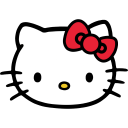
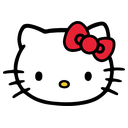
Install properly on a phone, and clear out what nothing uses
Adds a web app manifest, which is the piece Android needs: without one
the board installs as a bare shortcut with no name, no standalone launch
and no icon of its own, however good the favicon is. iOS took its icon
from the apple-touch-icon link already and now gets the 180px size it
actually asks for, so both platforms install the same board under the
same name. Icons are generated from julieSite's full-size artwork rather
than upscaled from the 128px favicon, on a solid tile because home-screen
icons are composited onto one, and with a maskable variant so launchers
that crop to a circle do not take the whiskers off.

Removes 1.5 MB of assets nothing references: the old kiosk icon this
replaces, an ad image and a logo from the rider-facing board that this
one does not draw, a stray JPEG duplicate of the Liberty Landing mark,
and three Windows Zone.Identifier files. Nothing in the repository names
any of them; all remain in git history.

A clean checkout of this branch could not start the server at all.
config/sftp.json is deployment secrets and so is not committed, but it
was read unconditionally, and the process threw ENOENT before serving
anything. A deployed box only kept working because it still had an old
copy of the file that nothing deletes. A missing file now means the
notice poller is off; a malformed one still throws.

The README follows the branch: the overrides/ starter files it told you
to upload are gone, so it describes the format instead, and its one
[…]

diff --git a/test/display-contract.test.js b/test/display-contract.test.js
@@ -788,8 +788,12 @@ test("offline shell includes version 57 display assets", async () => {
   // exactly the phone that installed the board to use it offline. iOS reads the apple-touch-icon
   // link specifically and falls back to a screenshot of the page without one.
   assert.match(index, /rel="icon" href="\/assets\/app-icon\.png\?v=57"/);
-  assert.match(index, /rel="apple-touch-icon" href="\/assets\/app-icon\.png\?v=57"/);
-  assert.match(worker, /'\/assets\/app-icon\.png\?v=57'/);
+  assert.match(index, /rel="apple-touch-icon" href="\/assets\/app-icon-180\.png\?v=57"/);
+  assert.match(index, /rel="manifest" href="\/site\.webmanifest\?v=57"/);
+  for (const asset of ["app-icon.png", "app-icon-180.png", "app-icon-192.png", "app-icon-512.png", "app-icon-maskable-512.png"]) {
+    assert.ok(worker.includes(`'/assets/${asset}?v=57'`), `${asset} is missing from the offline shell`);
+  }
+  assert.ok(worker.includes("'/site.webmanifest?v=57'"));
 });
 
 // The Trust's boats are badged with its wordmark, so the logo has to be precached with the rest of
@@ -864,5 +868,42 @@ test("no file carries an unresolved merge conflict", async () => {
     for (const marker of ["<<<<<<<", "=======", ">>>>>>>"]) {
       assert.doesNotMatch(text, new RegExp(`^${marker}`, "m"), `${name} still has a ${marker} conflict marker`);
     }
+  }
+});
+
+// The manifest is what makes an Android home-screen install an app rather than a bookmark: without
+// it the board gets no name, no standalone launch and no icon of its own. It is also the kind of
+// file that fails silently — a wrong icon path is not an error, it is just an install with a blank
+// tile — so every path it names is checked to exist.
+test("the web app manifest names a real icon for every size it claims", async () => {
+  const [raw, index] = await Promise.all([
+    readFile(new URL("../public/site.webmanifest", import.meta.url), "utf8"),
+    readFile(indexPath, "utf8")
+  ]);
+  const manifest = JSON.parse(raw);
+  assert.equal(manifest.display, "standalone");
+  assert.equal(manifest.start_url, "/");
+  // The label under the icon. It matches what iOS is told in apple-mobile-web-app-title, so the
+  // same board does not land on two phones under two different names.
+  assert.equal(manifest.short_name, "Ferry Board");
+  assert.match(index, /name="apple-mobile-web-app-title" content="Ferry Board"/);
+  // The theme colour is the board's navy, and it agrees with the meta tag the browser reads first.
+  assert.match(index, new RegExp(`name="theme-color" content="${manifest.theme_color}"`));
+
+  // Android needs a 192 and a 512 to treat this as installable, plus a maskable one so launchers
+  // that crop to a circle do not cut the whiskers off.
+  const sizes = manifest.icons.map((icon) => `${icon.sizes} ${icon.purpose}`);
+  assert.ok(sizes.includes("192x192 any"));
+  assert.ok(sizes.includes("512x512 any"));
+  assert.ok(sizes.includes("512x512 maskable"));
+
+  for (const icon of manifest.icons) {
+    const file = icon.src.split("?")[0].replace(/^\//, "");
+    const bytes = await readFile(new URL(`../public/${file}`, import.meta.url));
+    // A PNG header, and the dimensions the manifest promises — a 512 entry pointing at a 128 file
+    // installs as a blurry tile and nothing anywhere says so.
+    assert.equal(bytes.subarray(1, 4).toString(), "PNG", `${file} is not a PNG`);
+    const [width, height] = [bytes.readUInt32BE(16), bytes.readUInt32BE(20)];
+    assert.equal(`${width}x${height}`, icon.sizes, `${file} is ${width}x${height}, not ${icon.sizes}`);
   }
 });

diff --git a/public/sw.js b/public/sw.js
@@ -1,5 +1,5 @@
 const SHELL='nyc-ferry-did-shell-v57',DATA='nyc-ferry-did-data-v57';
-const FILES=['/','/index.html','/styles.css?v=57','/app.js?v=57','/assets/app-icon.png?v=57','/assets/waterway.png','/assets/seastreak.png','/assets/nyu.png','/assets/cityferry.png','/assets/gi.png','/assets/fonts/lato-regular-latin.woff2','/assets/fonts/lato-bold-latin.woff2','/assets/fonts/lato-black-latin.woff2','/assets/fonts/oswald-variable-latin.woff2'];
+const FILES=['/','/index.html','/styles.css?v=57','/app.js?v=57','/assets/app-icon.png?v=57','/assets/app-icon-180.png?v=57','/assets/app-icon-192.png?v=57','/assets/app-icon-512.png?v=57','/assets/app-icon-maskable-512.png?v=57','/site.webmanifest?v=57','/assets/waterway.png','/assets/seastreak.png','/assets/nyu.png','/assets/cityferry.png','/assets/gi.png','/assets/fonts/lato-regular-latin.woff2','/assets/fonts/lato-bold-latin.woff2','/assets/fonts/lato-black-latin.woff2','/assets/fonts/oswald-variable-latin.woff2'];
 self.addEventListener('install',event=>event.waitUntil(caches.open(SHELL).then(cache=>cache.addAll(FILES)).then(()=>self.skipWaiting())));
 self.addEventListener('activate',event=>event.waitUntil(caches.keys().then(keys=>Promise.all(keys.filter(key=>key.startsWith('nyc-ferry-did-')&&![SHELL,DATA].includes(key)).map(key=>caches.delete(key)))).then(()=>self.clients.claim())));
 async function networkFirst(request,cacheName){const cache=await caches.open(cacheName);try{const response=await fetch(request);if(response.ok)await cache.put(request,response.clone());return response}catch{const saved=await cache.match(request);if(saved)return saved;throw new Error('offline')}}

diff --git a/lib/sftp-overrides.js b/lib/sftp-overrides.js
@@ -96,7 +96,24 @@ export function describeSftpError(error, stage = error?.sftpStage || "unknown", 
 }
 
 export async function loadSftpOverrideConfig({ configPath, rootPath }) {
-  const parsed = JSON.parse(await readFile(configPath, "utf8"));
+  // No config file means the feature is off, not that the board cannot start.
+  //
+  // config/sftp.json holds a host, a username and the path to a private key, so it is deployment
+  // secrets rather than source and is not committed. Reading it unconditionally made a clean
+  // checkout refuse to boot at all — the server threw ENOENT before it ever served a departure —
+  // while a deployed box carried on working only because it still had an old copy of the file on
+  // disk that nothing deletes. A board with no landing notices configured is a board that shows no
+  // landing notices, which is what an absent file plainly means.
+  //
+  // Only "the file is not there" is treated this way. A file that exists and is malformed still
+  // throws, because that is someone having configured this and got it wrong, and failing quietly
+  // would leave a kiosk silently unable to receive the notices it was set up to show.
+  const raw = await readFile(configPath, "utf8").catch((error) => {
+    if (error?.code === "ENOENT") return null;
+    throw error;
+  });
+  if (raw === null) return { enabled: false, pollSeconds: 10, readyTimeoutSeconds: 15, verboseErrors: true };
+  const parsed = JSON.parse(raw);
   const enabled = parsed.enabled === true;
   const base = {
     enabled,

diff --git a/test/sftp-overrides.test.js b/test/sftp-overrides.test.js
@@ -197,3 +197,24 @@ test("polls the configured landing file and stores the last valid notice locally
   await poller.stop();
   assert.equal(calls.end, 1);
 });
+
+// config/sftp.json is deployment secrets — a host, a username, a key path — so it is not committed,
+// and reading it unconditionally meant a clean checkout could not start the server at all.
+test("a missing SFTP config leaves the feature off instead of stopping the board", async () => {
+  const config = await loadSftpOverrideConfig({
+    configPath: path.join(os.tmpdir(), "did-sftp-does-not-exist", "sftp.json"),
+    rootPath: os.tmpdir()
+  });
+  assert.equal(config.enabled, false);
+  assert.equal(config.pollSeconds, 10);
+  assert.equal(config.readyTimeoutSeconds, 15);
+});
+
+// A file that is there and wrong is someone having configured this and made a mistake. Swallowing
+// that would leave a kiosk quietly unable to receive the notices it was set up to show.
+test("a malformed SFTP config still throws", async () => {
+  const directory = await mkdtemp(path.join(os.tmpdir(), "did-sftp-"));
+  const configPath = path.join(directory, "sftp.json");
+  await writeFile(configPath, "{ not json", "utf8");
+  await assert.rejects(() => loadSftpOverrideConfig({ configPath, rootPath: directory }));
+});

diff --git a/public/index.html b/public/index.html
@@ -10,9 +10,12 @@
     <meta name="apple-mobile-web-app-title" content="Ferry Board" />
     <title>NYC Ferry Staff Board</title>
     <link rel="icon" href="/assets/app-icon.png?v=57" type="image/png" />
-    <!-- Same file: an iPhone adding the board to its home screen uses this one, and without it iOS
-         screenshots the page instead of showing an icon at all. -->
-    <link rel="apple-touch-icon" href="/assets/app-icon.png?v=57" />
+    <!-- iOS reads this one specifically when the board is added to a home screen, and shows a
+         screenshot of the page instead of an icon without it. 180px is the size it asks for. -->
+    <link rel="apple-touch-icon" href="/assets/app-icon-180.png?v=57" />
+    <!-- Android has no equivalent meta tags: name, standalone launch, splash screen and icons all
+         come from the manifest, which is why the board installs as a bare shortcut without it. -->
+    <link rel="manifest" href="/site.webmanifest?v=57" />
     <link rel="stylesheet" href="/styles.css?v=57" />
   </head>
   <body>

diff --git a/README.md b/README.md
@@ -122,9 +122,9 @@ the staff board shows every route direction at once and never pages. each depart
 
 ## landings
 
-[`config/landings.json`](./config/landings.json) is the source of truth for which landings exist and which GTFS stops they map to. the build validates against that file, not a hardcoded range, so adding a landing there (plus a matching `overrides/NN.json`) is all it takes.
+[`config/landings.json`](./config/landings.json) is the source of truth for which landings exist and which GTFS stops they map to. the build validates against that file, not a hardcoded range, so adding a landing there is all it takes. if that landing is meant to receive SFTP notices, it also needs a file of its own on the SFTP server — see *SFTP landing notices*.
 
-landings `2` through `24` are alphabetical. `25` and `26` were added later so existing kiosk numbers stayed put, and `28` and `29` later still for the same reason. Rockaway (`18`) covers both the ferry landing and the shuttle-bus stop next to it.
+landings `2` through `24` are alphabetical. `25` and `26` were added later so existing kiosk numbers stayed put, and `28` through `31` later still for the same reason. `1` is unused and `27` (Pier C) is the virtual home-port landing. Rockaway (`18`) covers both the ferry landing and the shuttle-bus stop next to it.
 
 Governors Island is two landings because it is two piers a walk apart: `11` Yankee Pier takes NYC Ferry's South Brooklyn boat and the Trust's Red Hook and Brooklyn Bridge Park boats, `29` Soissons Landing takes the Trust's Manhattan boat from the Battery Maritime Building. `28` Whitehall is the Manhattan end of that crossing, shared with the Staten Island Ferry, Seastreak and the Statue of Liberty boats from Battery Park a couple of hundred metres away. `30` Liberty Island and `31` Ellis Island are the far end of that last one. none of `28`, `29`, `30` or `31` is an NYC Ferry stop — see *partner operators* below.
 
@@ -318,17 +318,17 @@ full file contract and integration notes: [`override.md`](./override.md).
 
 Power Automate never calls the kiosk. it writes a small JSON file to an SFTP server, and each kiosk polls read-only for the one file matching its `landingNumber` — landing 2 reads `/overrides/02.json`, landing 10 reads `/overrides/10.json`.
 
-an active notice hides the departure board, the ad, and the service-alert strip, and replaces them with a full-screen notice panel. a blank message brings the normal display back. the last valid result is cached locally, so an SFTP outage never changes the screen on its own.
+an active notice hides the departure board and the service-alert strip, and replaces them with a full-screen notice panel. a blank message brings the normal display back. the last valid result is cached locally, so an SFTP outage never changes the screen on its own.
 
 ### set up the server
 
 1. create `/overrides` on the SFTP server.
-2. upload the 25 starter files from [`overrides/`](./overrides) — landings 2 through 26, all blank.
+2. create one file per landing that should be able to receive a notice, named for its landing number — `02.json` through `31.json`. each starts blank: `{"landingId": 2, "message": ""}`. (these no longer ship in the repo; a blank file is the whole format.)
 3. give the Power Automate account write access to those files.
 4. give each kiosk account read-only access. kiosks must never have write access.
 5. record the server's SHA256 host-key fingerprint. from a trusted machine: `ssh-keyscan -t ed25519 <host> | ssh-keygen -lf - -E sha256`. confirm it with the server admin before using it.
 
-then configure [`config/sftp.json`](./config/sftp.json) on each kiosk:
+then configure `config/sftp.json` on each kiosk. it carries a host, a username and a key path, so it is deployment secrets rather than source and is **not committed** — create it on the box. with no such file the poller stays off and the rest of the board runs normally; a file that exists and is malformed still fails loudly, because that is a kiosk that was meant to receive notices and cannot.
 
 ```json
 {
